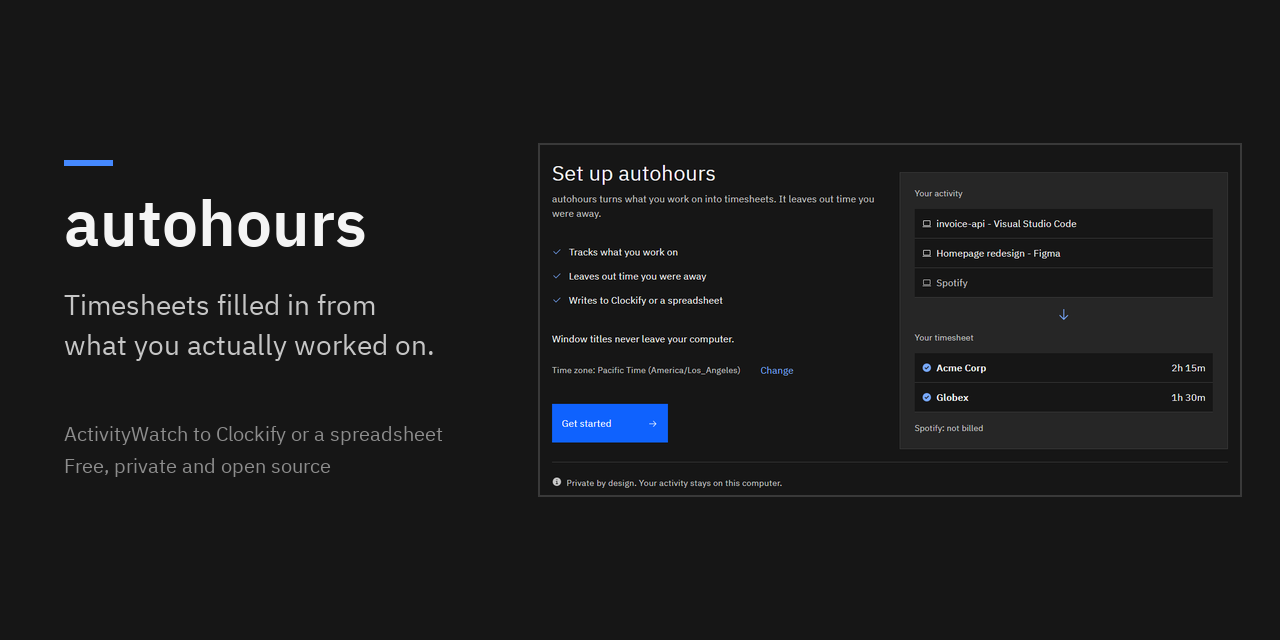
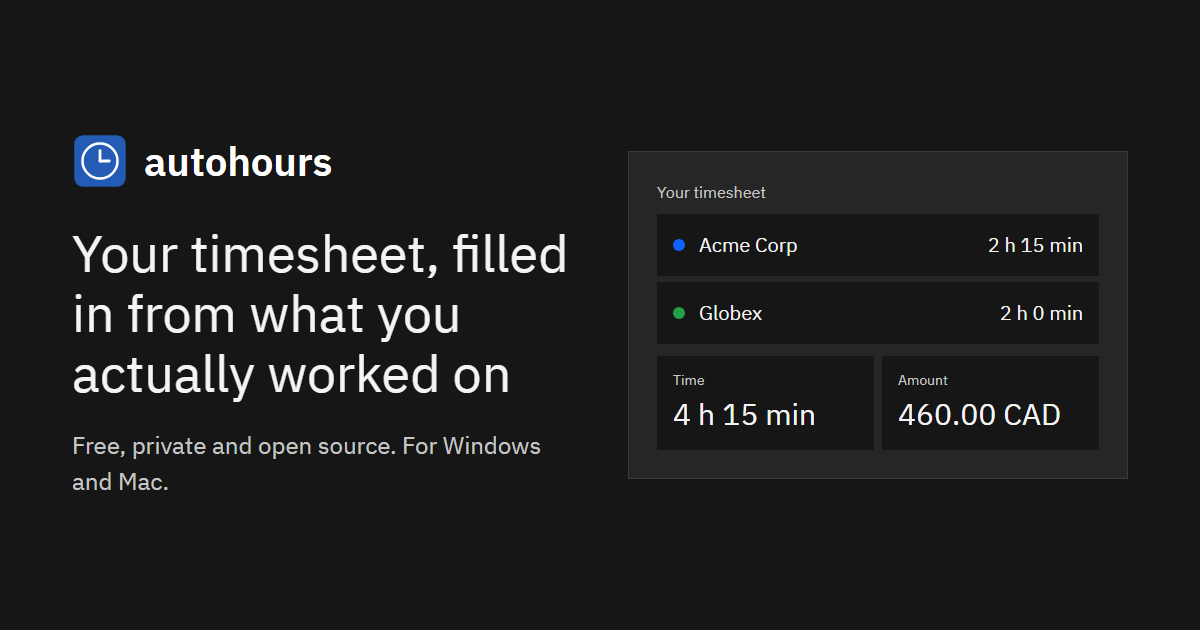
Second launch brings back the running app's window; typed sync is a manual run; re-added client keeps time away across capitals; new social preview image; website deploys from Git

diff --git a/src/autohours/webapp.py b/src/autohours/webapp.py
@@ -532,8 +532,13 @@ class Application:
             renames = {self.saved_names[pid]: row["name"] for pid, row in zip(self.project_ids, s.raw["projects"])
                        if pid in self.saved_names and self.saved_names[pid] != row["name"]}
             removed = {name for pid, name in self.saved_names.items() if pid not in self.project_ids}
-            # A client removed and added back under the same name in one sitting is still that client.
-            removed -= {row["name"] for pid, row in zip(self.project_ids, s.raw["projects"]) if pid not in self.saved_names}
+            # A client removed and added back under the same name in one sitting is still that client,
+            # even with different capitals; its time away follows the new spelling.
+            added = {row["name"].casefold(): row["name"] for pid, row in zip(self.project_ids, s.raw["projects"]) if pid not in self.saved_names}
+            for name in [n for n in removed if n.casefold() in added]:
+                removed.discard(name)
+                if added[name.casefold()] != name:
+                    renames[name] = added[name.casefold()]
             try:
                 time_away = accepted.plan_client_changes(s.path, renames, {row["name"] for row in s.raw["projects"]}, removed)
             except UserError:
@@ -677,17 +682,19 @@ class Server(ThreadingHTTPServer):
         self.token = secrets.token_urlsafe(32)
         self.bootstrap = secrets.token_urlsafe(32)
         self.bootstrap_lock = threading.Lock()
+        self.show_request = None
         self.first_timeout, self.heartbeat_timeout = first_timeout, heartbeat_timeout
-        self.started = time.monotonic()
+        self.started = self.bootstrap_started = time.monotonic()
         self.heartbeat = None
         self.stopping = threading.Event()
         super().__init__(("127.0.0.1", 0), Handler)
         self.host = f"127.0.0.1:{self.server_port}"
         self.origin = "http://" + self.host
         self.url = self.origin + "/#b=" + self.bootstrap
+        self.used_codes = [self.bootstrap]
 
     def clean_error(self, message):
-        for secret in (self.token, self.url.split("#b=", 1)[1]):
+        for secret in (self.token, *self.used_codes):
             message = message.replace(secret, "[private]")
         return self.app.clean(message)
 
@@ -702,7 +709,7 @@ class Server(ThreadingHTTPServer):
     def redeem_bootstrap(self, code):
         with self.bootstrap_lock:
             if (not isinstance(code, str) or self.bootstrap is None
-                    or time.monotonic() - self.started >= 120
+                    or time.monotonic() - self.bootstrap_started >= 120
                     or not hmac.compare_digest(code.encode("utf-8", errors="surrogatepass"), self.bootstrap.encode("ascii"))):
                 return False
             self.bootstrap = None
@@ -717,8 +724,23 @@ class Server(ThreadingHTTPServer):
             self.stopping.set()
             monitor.join(timeout=1)
 
+    def reopen(self):
+        """Open another window for this running app, with a fresh one-time code."""
+        with self.bootstrap_lock:
+            self.bootstrap = secrets.token_urlsafe(32)
+            self.bootstrap_started = time.monotonic()
+            self.used_codes.append(self.bootstrap)
+            self.url = self.origin + "/#b=" + self.bootstrap
+        open_window(self.url)
+
     def watch_lifetime(self):
         while not self.stopping.wait(0.05):
+            if self.show_request is not None and self.show_request.exists():
+                try:
+                    self.show_request.unlink()
+                except OSError:
+                    pass
+                self.reopen()
             last = self.heartbeat
             if time.monotonic() - (last if last is not None else self.started) > (self.heartbeat_timeout if last is not None else self.first_timeout):
                 self.shutdown()
@@ -915,7 +937,39 @@ def startup_alert(message):
         pass
 
 
+def instance_files(config):
+    """The marker a running app leaves, and the file a second launch writes to ask it for a window."""
+    folder = user_config_dir() / "window"
+    key = runlog.config_id(config)[:16]
+    return folder / f"running-{key}", folder / f"show-{key}"
+
+
+def ask_running_app(config, wait=3.0):
+    """True when an app for these settings is already running and opened a window for us."""
+    running, request = instance_files(config)
+    if not running.exists():
+        return False
+    try:
+        request.write_text("show", encoding="utf-8")
+    except OSError:
+        return False
+    deadline = time.monotonic() + wait
+    while time.monotonic() < deadline:
+        if not request.exists():
+            return True
+        time.sleep(0.05)
+    # Nobody answered: the marker was left by an app that did not close cleanly.
+    for path in (request, running):
+        try:
+            path.unlink()
+        except OSError:
+            pass
+    return False
+
+
 def launch(explicit=None):
+    if not os.environ.get("AUTOHOURS_NO_WINDOW") and ask_running_app(config_path(explicit).resolve()):
+        return 0
     try:
         server = Server(desktop.Session(explicit))
     except UserError as exc:
@@ -923,6 +977,14 @@ def launch(explicit=None):
         raise
     except OSError:
         raise UserError("Could not open the local app. Check that your computer allows local connections.") from None
+    running = None
+    if not os.environ.get("AUTOHOURS_NO_WINDOW"):
+        running, server.show_request = instance_files(server.app.session.path)
+        try:
+            running.parent.mkdir(parents=True, exist_ok=True)
+            running.write_text(str(os.getpid()), encoding="utf-8")
+        except OSError:
+            running = server.show_request = None  # Without the marker a second launch simply opens a second app.
     with server:
         if sys.stdout is not None:
             print("Open autohours: " + server.url, flush=True)
@@ -933,4 +995,10 @@ def launch(explicit=None):
             server.serve_forever()
         except KeyboardInterrupt:
             pass
+        finally:
+            if running is not None:
+                try:
+                    running.unlink()
+                except OSError:
+                    pass
     return 0

diff --git a/tests/test_webapp.py b/tests/test_webapp.py
@@ -352,6 +352,11 @@ def test_a_client_removed_and_added_back_keeps_its_time_away(call, app, tmp_path
     call("agreements", {"agreements": [{"billing": "none"}]})
     assert "message" not in call("save", {})
     assert len(call(f"offline?day={day}")["blocks"]) == 1
+    [old] = call("state")["projects"]
+    call("projects", {"projects": [{**{k: v for k, v in old.items() if k != "id"}, "name": "acme corp"}]})
+    call("agreements", {"agreements": [{"billing": "none"}]})
+    assert "message" not in call("save", {})
+    assert [b["client"] for b in call(f"offline?day={day}")["blocks"]] == ["acme corp"]
 
 
 def test_time_away_rows_that_are_not_plain_text_are_reported_not_crashed(tmp_path):
@@ -448,9 +453,36 @@ def test_early_refusals_still_answer_requests_with_a_body(server_factory, app):
             assert http(server, "/api/save", body)[0] == 409
 
 
+def test_a_second_launch_brings_back_a_window_from_the_running_app(server_factory, tmp_path, monkeypatch):
+    monkeypatch.setattr(webapp, "user_config_dir", lambda: tmp_path / "config")
+    opened = []
+    monkeypatch.setattr(webapp, "open_window", opened.append)
+    server, _ = server_factory()
+    first = server.bootstrap
+    assert http(server, "/api/session", {"bootstrap": first}, token=False)[0] == 200
+    running, server.show_request = webapp.instance_files(server.app.session.path)
+    running.parent.mkdir(parents=True)
+    running.write_text("1")
+    assert webapp.ask_running_app(server.app.session.path, wait=5) is True
+    [url] = opened
+    code = url.split("#b=", 1)[1]
+    assert code != first and http(server, "/api/session", {"bootstrap": first}, token=False)[0] == 403
+    assert http(server, "/api/session", {"bootstrap": code}, token=False)[0] == 200
+
+
+def test_a_stale_running_marker_is_cleared_and_the_launch_continues(tmp_path, monkeypatch):
+    monkeypatch.setattr(webapp, "user_config_dir", lambda: tmp_path)
+    running, request = webapp.instance_files(tmp_path / "autohours.toml")
+    running.parent.mkdir(parents=True)
+    running.write_text("1")
+    assert webapp.ask_running_app(tmp_path / "autohours.toml", wait=0.2) is False
+    assert not running.exists() and not request.exists()
+    assert webapp.ask_running_app(tmp_path / "autohours.toml", wait=0.2) is False
+
+
 def test_expired_bootstrap_is_rejected(server_factory):
     server, _ = server_factory(first_timeout=300)
-    server.started -= 121
+    server.bootstrap_started -= 121
     assert http(server, "/api/session", {"bootstrap": server.bootstrap}, token=False)[0] == 403
 
 

diff --git a/tests/test_desktop.py b/tests/test_desktop.py
@@ -234,6 +234,16 @@ def test_entry_routes_no_args_cli_and_frozen_logs(tmp_path, monkeypatch):
     assert "Run finished: success" in next(tmp_path.glob("*.log")).read_text()
 
 
+@pytest.mark.parametrize("typed, kind", [(True, "manual"), (False, "nightly")])
+def test_a_typed_morning_command_is_a_manual_run(typed, kind, tmp_path, monkeypatch):
+    monkeypatch.setattr(entry.cli, "main", lambda args: 0)
+    monkeypatch.setattr(runlog, "log_directory", lambda: tmp_path)
+    monkeypatch.setattr(entry.sys, "frozen", True, raising=False)
+    monkeypatch.setattr(entry.sys, "stdin", type("Stdin", (), {"isatty": lambda self: typed})())
+    assert entry.main(["sync", "yesterday", "--write"]) == 0
+    assert f"Run kind: {kind}" in next(tmp_path.glob("*.log")).read_text()
+
+
 @pytest.mark.parametrize("flag", ["--version", "--help"])
 def test_packaged_app_help_and_version_print_only_their_answer(flag, tmp_path, monkeypatch, capsys):
     monkeypatch.setattr(runlog, "log_directory", lambda: tmp_path)

diff --git a/src/autohours/entry.py b/src/autohours/entry.py
@@ -39,7 +39,9 @@ def main(argv=None):
             with logging():
                 if parsed is not None:
                     record("Run config: " + config_id(config_path(parsed.config)))
-                    kind = "nightly" if parsed.command == "sync" and parsed.dates == ["yesterday"] and parsed.write else "manual"
+                    # The schedule runs without a terminal; someone typing the same command is a manual run.
+                    typed = sys.stdin is not None and sys.stdin.isatty()
+                    kind = "nightly" if parsed.command == "sync" and parsed.dates == ["yesterday"] and parsed.write and not typed else "manual"
                     record("Run kind: " + kind)
                 result = cli.main(args)
                 record(f"Run finished: {'success' if result == 0 else 'needs attention'}")

diff --git a/CHANGELOG.md b/CHANGELOG.md
@@ -4,6 +4,7 @@
 
 ### Improved
 
+- Opening autohours while it is already open brings back a window for the running app instead of starting a second copy.
 - The app shows its version at the bottom of every screen.
 - An unexpected error names the folder that holds the private run log.
 - Time away on the day the clocks change says why a time in that hour cannot be used, and an impossible time such as 24:00 asks for hours and minutes.
@@ -11,6 +12,7 @@
 
 ### Fixed
 
+- Typing `autohours sync yesterday --write` in a terminal no longer shows on Home as the last morning run; only the schedule's own runs do.
 - On a busy computer, refreshing the window could show "This window has expired" although autohours was still running. The window now retries before deciding the app has closed.
 - After a failed review, the disabled Write button kept the previous day's name. It now names the chosen day straight away, and when Check and finish shows today because yesterday was empty, the button says today.
 - Two clients whose names differ only in capitals, such as "Acme Corp" and "acme corp", were allowed. They now count as the same name, in the app and the text setup.
@@ -23,7 +25,7 @@
 - At phone width, the notes above the tables in the HTML report were cut off at the edge. They now wrap, and the tables scroll on their own.
 - A long client name in the activity list was cut off mid-letter. It now ends in an ellipsis and shows in full on hover.
 - `autohours schedule --remove`, or turning Every morning off after the task was deleted by hand, blamed account permissions when there was simply no schedule. It now says there is nothing to remove.
-- Renaming or removing a client after adding time away for it stopped every review, write and morning run with "Invalid accepted time". Time away now follows a renamed client. Removing a client and saving removes its time away too, and the app says so. Removing one time away entry never touches any other. Removing a client and renaming another to its name in the same save keeps each client's own time. A client removed and added back under the same name before saving keeps its time away.
+- Renaming or removing a client after adding time away for it stopped every review, write and morning run with "Invalid accepted time". Time away now follows a renamed client. Removing a client and saving removes its time away too, and the app says so. Removing one time away entry never touches any other. Removing a client and renaming another to its name in the same save keeps each client's own time. A client removed and added back under the same name before saving keeps its time away, even with different capitals.
 - A quick second click while an earlier action was still finishing could show "Another check or save is still running". The app now waits a moment and retries.
 - The website and README said every day is reviewed before it is written; they now say Every morning writes on its own once you turn it on.
 

diff --git a/CONTRIBUTING.md b/CONTRIBUTING.md
@@ -33,3 +33,7 @@ Pushing a `v*` tag runs tests and builds both downloads. The workflow attaches t
 ## Credits
 
 The desktop app follows the IBM Carbon Design System v11. Bundled IBM Plex Sans fonts are licensed under the [SIL Open Font License](src/autohours/web/fonts/OFL.txt). Bundled Carbon icons are licensed under the [Apache License 2.0](src/autohours/web/icons-LICENSE.txt).
+
+## Website
+
+The website lives in `site/` as plain HTML, CSS and JavaScript with no build step. Vercel deploys it from `main` when a commit changes something in `site/`; commits that only touch the app are skipped.
